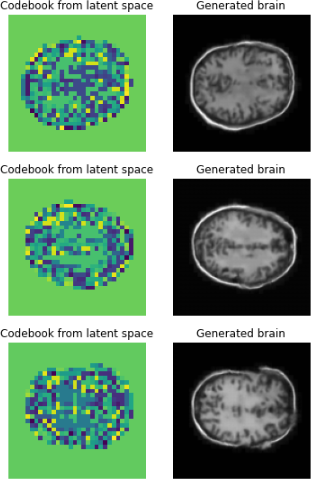
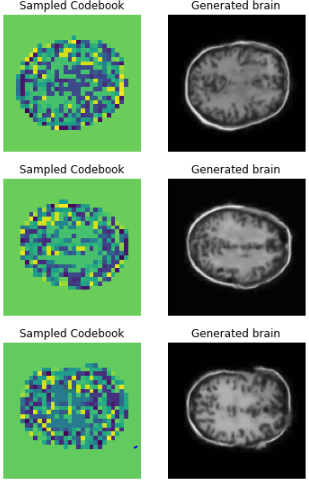
Fixed SSIM calculations, added colour correct implots for geneations.

diff --git a/recognition/45825473_VQVAE_OAISIS_BRAINS/modules.py b/recognition/45825473_VQVAE_OAISIS_BRAINS/modules.py
@@ -1,6 +1,8 @@
 from tensorflow import keras
 from keras import layers
 import tensorflow_probability as tfp
+import tensorflow as tf
+import numpy as np
 
 ################################################################
 # The following classes VectorQuantizer, VQVAE and VQVAETainer #
@@ -142,11 +144,12 @@ class VQVAETrainer(keras.models.Model):
         # Define the reconstuction and total loss variables to be printed during training
         self.total_loss_tracker = keras.metrics.Mean(name="total_loss")
         self.reconstruction_loss_tracker = keras.metrics.Mean(name="reconstruction_loss")
+        self.epoch_ssim = keras.metrics.Mean(name="epoch_ssim")
 
     @property
     def metrics(self):
         return [self.total_loss_tracker,
-            self.reconstruction_loss_tracker]
+            self.reconstruction_loss_tracker, self.epoch_ssim]
 
     def train_step(self, x):
         with tf.GradientTape() as tape:
@@ -155,6 +158,10 @@ class VQVAETrainer(keras.models.Model):
             # Calculate the total and reconstruction losses
             reconstruction_loss = (tf.reduce_mean((x - reconstructions) ** 2) / self.train_variance)
             total_loss = reconstruction_loss + sum(self.vqvae.losses)
+            ssim = 0
+            for index in range(x.shape[0]):
+              ssim += (tf.image.ssim(x[index, :, :, :], reconstructions[index, :, :, :], max_val=255))
+            avgssim = ssim / x.shape[0]
 
         # Application of backpropagation
         grads = tape.gradient(total_loss, self.vqvae.trainable_variables)
@@ -163,10 +170,11 @@ class VQVAETrainer(keras.models.Model):
         # Update the loss variables
         self.total_loss_tracker.update_state(total_loss)
         self.reconstruction_loss_tracker.update_state(reconstruction_loss)
+        self.epoch_ssim.update_state(avgssim)
 
         # Print the loss results during the training
         return {"loss": self.total_loss_tracker.result(),
-            "reconstruction_loss": self.reconstruction_loss_tracker.result()}
+            "reconstruction_loss": self.reconstruction_loss_tracker.result(), "epoch_ssim": self.epoch_ssim.result()}
 
 class PixelConvLayer(layers.Layer):
     """
